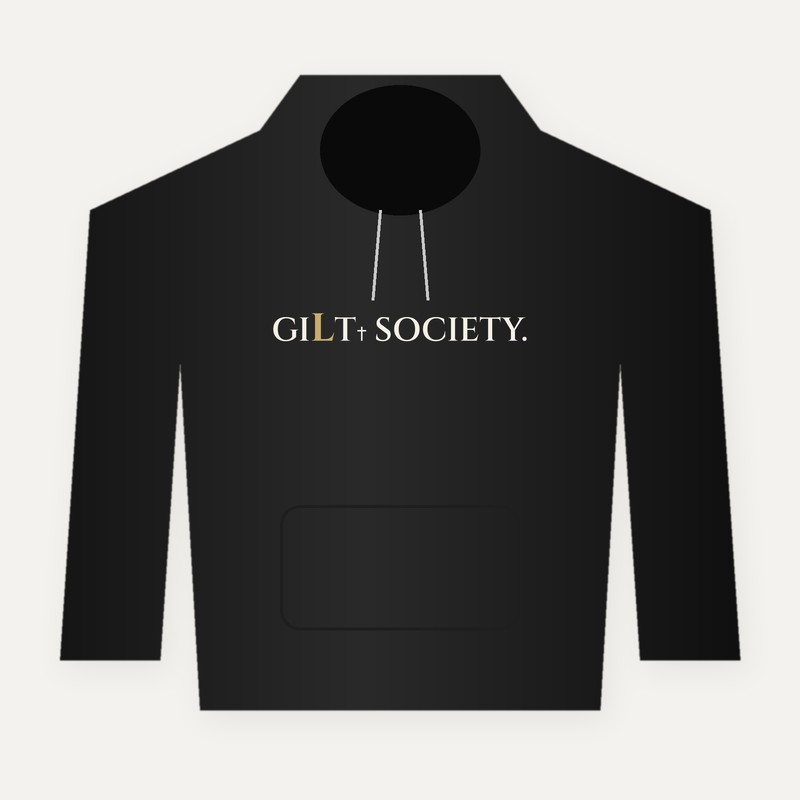
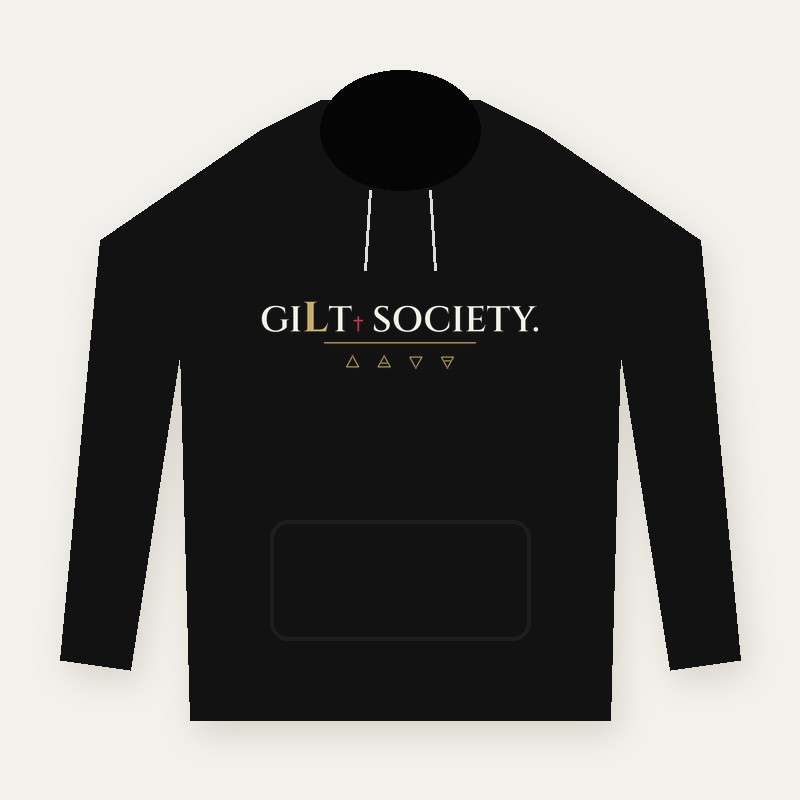
Signature printed tee, hoodie, tote: v2 lockup with four elements
Claude-Session: https://claude.ai/code/session_014iiJHpRhDAAXHjpJ1MU1PV

diff --git a/public/merch.html b/public/merch.html
@@ -27,7 +27,7 @@
 <section id="merch"><div class="in"><p class="k"><svg class="sy"><use href="#s-earth"/></svg>Vestments &mdash; Society Merch</p><h2>Society Merch</h2><p class="sub">Wearable pieces of the Society. Every item is made to order for you and ships in 5&ndash;10 business days, with $7.95 flat US shipping. Choose your size at checkout.</p>
 <h3 class="mh">The Persephone Edition</h3><div class="mg"><article class="mc"><div class="mi"><img src="img/merch/persephone-aop-tee.jpg" alt="Gilt Society. Persephone All-Over Tee" loading="lazy" width="800" height="800"></div><div class="mb"><h3>Persephone All-Over Tee</h3><p class="mp">$58</p><p class="md">The painting, edge to edge. The Gilt Society. name and the four elements live on the back.</p><p class="ms">XS–2XL &middot; made to order</p><a class="btn" href="https://buy.stripe.com/14A9AM4vYf1Abt0gy21oI0t" target="_blank" rel="noopener">Buy &rarr;</a></div></article><article class="mc"><div class="mi"><img src="img/merch/persephone-sweatshirt.jpg" alt="Gilt Society. Persephone Sweatshirt" loading="lazy" width="800" height="800"></div><div class="mb"><h3>Persephone Sweatshirt</h3><p class="mp">$72</p><p class="md">Black premium crewneck with Persephone, the Gilt Society. name and the four elements beneath her.</p><p class="ms">S–3XL &middot; made to order</p><a class="btn" href="https://buy.stripe.com/8x27sE0fI3iS1Sq1D81oI0u" target="_blank" rel="noopener">Buy &rarr;</a></div></article><article class="mc"><div class="mi"><img src="https://files.cdn.printful.com/files/0cd/0cd37065373eb8f49ba6b71ddf982b6b_preview.png" alt="Gilt Society. Persephone Mug" loading="lazy" width="800" height="800"></div><div class="mb"><h3>Persephone Mug</h3><p class="mp">$28</p><p class="md">11 oz ceramic, wrapped in Persephone on both sides.</p><p class="ms">11 oz &middot; made to order</p><a class="btn" href="https://buy.stripe.com/3cIeV69Qif1A54CdlQ1oI0b" target="_blank" rel="noopener">Buy &rarr;</a></div></article></div>
 <h3 class="mh">Signature &mdash; Embroidered</h3><div class="mg"><article class="mc"><div class="mi"><img src="https://files.cdn.printful.com/files/045/045d5da96e69009b681d081728e9b8d6_preview.png" alt="Gilt Society. Embroidered Tee &mdash; Black" loading="lazy" width="800" height="800"></div><div class="mb"><h3>Embroidered Tee &mdash; Black</h3><p class="mp">$44</p><p class="md">Stitched in cream, old gold and red. Quiet, close to the heart.</p><p class="ms">XS–3XL &middot; made to order</p><a class="btn" href="https://buy.stripe.com/cNi28k4vY1aK9kSa9E1oI0v" target="_blank" rel="noopener">Buy &rarr;</a></div></article><article class="mc"><div class="mi"><img src="https://files.cdn.printful.com/files/935/93547cc4978228fbc2d03597dce81436_preview.png" alt="Gilt Society. Embroidered Tee &mdash; White" loading="lazy" width="800" height="800"></div><div class="mb"><h3>Embroidered Tee &mdash; White</h3><p class="mp">$44</p><p class="md">Stitched in maroon, old gold and red.</p><p class="ms">XS–3XL &middot; made to order</p><a class="btn" href="https://buy.stripe.com/8x2bIU4vYf1AaoW5To1oI0w" target="_blank" rel="noopener">Buy &rarr;</a></div></article><article class="mc"><div class="mi"><img src="https://files.cdn.printful.com/files/c1f/c1fc0967a7f90c596e1ce2c231b75edf_preview.png" alt="Gilt Society. Embroidered Hoodie &mdash; Black" loading="lazy" width="800" height="800"></div><div class="mb"><h3>Embroidered Hoodie &mdash; Black</h3><p class="mp">$88</p><p class="md">Heavy premium pullover, the Gilt Society. name stitched at the chest.</p><p class="ms">XS–3XL &middot; made to order</p><a class="btn" href="https://buy.stripe.com/cNi14g2nQbPo1Sq4Pk1oI0x" target="_blank" rel="noopener">Buy &rarr;</a></div></article><article class="mc"><div class="mi"><img src="https://files.cdn.printful.com/files/b6b/b6bf9aa8a2e9412af51c3abace5122eb_preview.png" alt="Gilt Society. Embroidered Hoodie &mdash; White" loading="lazy" width="800" height="800"></div><div class="mb"><h3>Embroidered Hoodie &mdash; White</h3><p class="mp">$88</p><p class="md">Heavy premium pullover in white with maroon and gold thread.</p><p class="ms">XS–3XL &middot; made to order</p><a class="btn" href="https://buy.stripe.com/6oUeV62nQ2eOeFc4Pk1oI0y" target="_blank" rel="noopener">Buy &rarr;</a></div></article><article class="mc"><div class="mi"><img src="img/merch/embroidered-vneck-white.jpg" alt="Gilt Society. Embroidered V-Neck &mdash; White" loading="lazy" width="800" height="800"></div><div class="mb"><h3>Embroidered V-Neck &mdash; White</h3><p class="mp">$44</p><p class="md">The Gilt Society. name and four elements stitched small over the heart.</p><p class="ms">S–2XL &middot; made to order</p><a class="btn" href="https://buy.stripe.com/aFadR2e6y5r08gO0z41oI0C" target="_blank" rel="noopener">Buy &rarr;</a></div></article><article class="mc"><div class="mi"><img src="img/merch/embroidered-cap-black.jpg" alt="Gilt Society. Embroidered Cap &mdash; Black" loading="lazy" width="800" height="800"></div><div class="mb"><h3>Embroidered Cap &mdash; Black</h3><p class="mp">$38</p><p class="md">Gilt Society. on the front, the four elements stitched on the back.</p><p class="ms">One size &middot; made to order</p><a class="btn" href="https://buy.stripe.com/aFa14g3rU8Dc7cKftY1oI0D" target="_blank" rel="noopener">Buy &rarr;</a></div></article><article class="mc"><div class="mi"><img src="img/merch/embroidered-cap-white.jpg" alt="Gilt Society. Embroidered Cap &mdash; White" loading="lazy" width="800" height="800"></div><div class="mb"><h3>Embroidered Cap &mdash; White</h3><p class="mp">$38</p><p class="md">Maroon and old gold on white, the four elements on the back.</p><p class="ms">One size &middot; made to order</p><a class="btn" href="https://buy.stripe.com/28EaEQe6y06G8gOepU1oI0E" target="_blank" rel="noopener">Buy &rarr;</a></div></article></div>
-<h3 class="mh">Signature &mdash; Printed</h3><div class="mg"><article class="mc"><div class="mi"><img src="img/merch/signature-tee-black.jpg" alt="Gilt Society. Signature Tee &mdash; Black" loading="lazy" width="800" height="800"></div><div class="mb"><h3>Signature Tee &mdash; Black</h3><p class="mp">$38</p><p class="md">The Gilt Society. name printed across the chest.</p><p class="ms">XS–3XL &middot; made to order</p><a class="btn" href="https://buy.stripe.com/28E5kw8Me5r0bt0gy21oI0A" target="_blank" rel="noopener">Buy &rarr;</a></div></article><article class="mc"><div class="mi"><img src="img/merch/signature-hoodie-black.jpg" alt="Gilt Society. Signature Hoodie &mdash; Black" loading="lazy" width="800" height="800"></div><div class="mb"><h3>Signature Hoodie &mdash; Black</h3><p class="mp">$72</p><p class="md">Printed large across the chest, heavy premium fleece.</p><p class="ms">XS–3XL &middot; made to order</p><a class="btn" href="https://buy.stripe.com/8x24gs2nQ4mW1Sq81w1oI0B" target="_blank" rel="noopener">Buy &rarr;</a></div></article><article class="mc"><div class="mi"><img src="img/merch/signature-tote.jpg" alt="Gilt Society. Signature Tote" loading="lazy" width="800" height="800"></div><div class="mb"><h3>Signature Tote</h3><p class="mp">$34</p><p class="md">Natural organic cotton, carried everywhere.</p><p class="ms">One size &middot; made to order</p><a class="btn" href="https://buy.stripe.com/bJe14g3rUg5Ebt0chM1oI0z" target="_blank" rel="noopener">Buy &rarr;</a></div></article></div>
+<h3 class="mh">Signature &mdash; Printed</h3><div class="mg"><article class="mc"><div class="mi"><img src="img/merch/signature-tee-black.jpg" alt="Gilt Society. Signature Tee &mdash; Black" loading="lazy" width="800" height="800"></div><div class="mb"><h3>Signature Tee &mdash; Black</h3><p class="mp">$38</p><p class="md">The Gilt Society. name and the four elements printed large across the chest.</p><p class="ms">XS–3XL &middot; made to order</p><a class="btn" href="https://buy.stripe.com/28E5kw8Me5r0bt0gy21oI0A" target="_blank" rel="noopener">Buy &rarr;</a></div></article><article class="mc"><div class="mi"><img src="img/merch/signature-hoodie-black.jpg" alt="Gilt Society. Signature Hoodie &mdash; Black" loading="lazy" width="800" height="800"></div><div class="mb"><h3>Signature Hoodie &mdash; Black</h3><p class="mp">$72</p><p class="md">The name and four elements printed large across the chest, heavy premium fleece.</p><p class="ms">XS–3XL &middot; made to order</p><a class="btn" href="https://buy.stripe.com/8x24gs2nQ4mW1Sq81w1oI0B" target="_blank" rel="noopener">Buy &rarr;</a></div></article><article class="mc"><div class="mi"><img src="img/merch/signature-tote.jpg" alt="Gilt Society. Signature Tote" loading="lazy" width="800" height="800"></div><div class="mb"><h3>Signature Tote</h3><p class="mp">$34</p><p class="md">Natural organic cotton with the Gilt Society. name and four elements in maroon and gold.</p><p class="ms">One size &middot; made to order</p><a class="btn" href="https://buy.stripe.com/bJe14g3rUg5Ebt0chM1oI0z" target="_blank" rel="noopener">Buy &rarr;</a></div></article></div>
 <h3 class="mh">Arriving Soon</h3><p class="sub">Society stickers.</p>
 </div></section>
 <nav class="pager" aria-label="Page navigation"><a class="pg prev" href="collection.html">&larr; Collection</a><a class="pg next btn" href="experiences.html">Next: Experiences &rarr;</a></nav>
